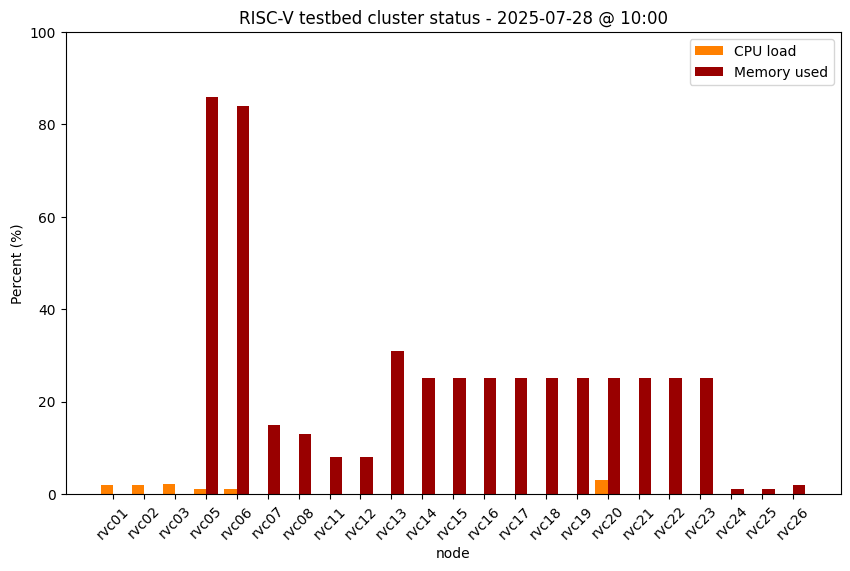
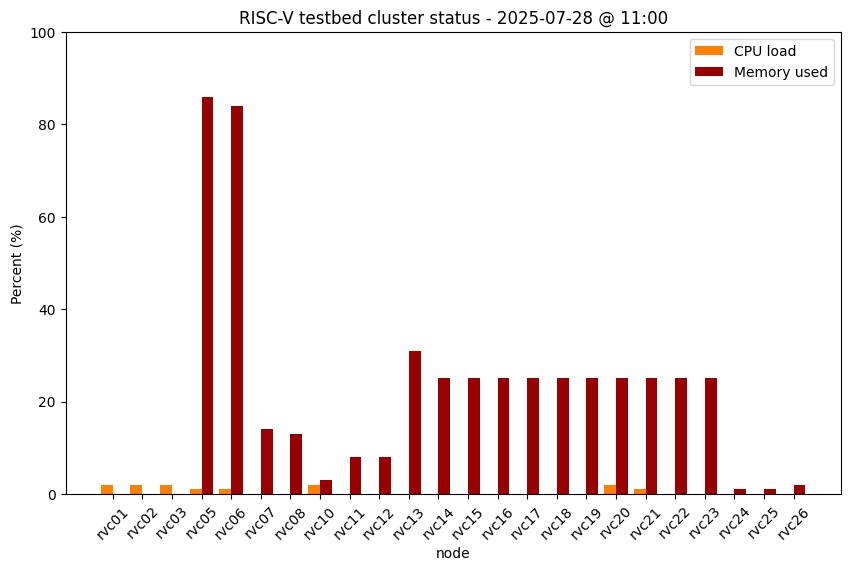
Update cluster status

Changed region(s): [[0.1529, 0.1786, 0.9482, 0.9527], [0.7341, 0.0, 0.7647, 0.0595]]

diff --git a/status.md b/status.md
@@ -22,7 +22,7 @@ permalink: /status/
 | StarFive VisionFive V1 #1 | rvc07 | 2 | 8GB | <img src="/images/on.png" alt="green light" width="10"/> up |
 | StarFive VisionFive V1 #2 | rvc08 | 2 | 8GB | <img src="/images/on.png" alt="green light" width="10"/> up |
 | StarFive VisionFive V1 #3 | rvc09 | 2 | 8GB | <img src="/images/amber.png" alt="amber light" width="10"/> offline |
-| HiFive Unmatched  | rvc10 | 4 | 16GB | <img src="/images/off.png" alt="red light" width="10"/> down |
+| HiFive Unmatched  | rvc10 | 4 | 16GB | <img src="/images/on.png" alt="green light" width="10"/> up |
 | StarFive VisionFive V2 #1 | rvc11 | 4 | 8GB | <img src="/images/on.png" alt="green light" width="10"/> up |
 | StarFive VisionFive V2 #2 | rvc12 | 4 | 8GB | <img src="/images/on.png" alt="green light" width="10"/> up |
 | StarFive VisionFive V2 #3 | rvc13 | 4 | 8GB | <img src="/images/on.png" alt="green light" width="10"/> up |
